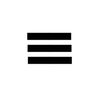
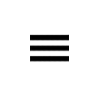
미디어 쿼리 추가

Changed region(s): [[0.27, 0.3, 0.72, 0.66]]

diff --git a/index.html b/index.html
@@ -9,7 +9,7 @@
     <script src="/jquery-3.2.1.min.js"></script>
     <link href="https://fonts.googleapis.com/css?family=Roboto:100,100i,300,400,500,700,900" rel="stylesheet">
 </head>
-<body id="main_page_body">
+<body id="second_page_body">
     <div class="container">
         <header>
             <a href="http://dothegee.org"><img src="/image/logo.svg" id="home_logo" alt=""></a>
@@ -24,7 +24,8 @@
         </header>
         <div class="contants">
             <nav>
-                <ul>
+               <a href="#" id="menu-icon"></a>
+                <ul>  
                     <li><a href="#">Editorial</a></li>
                     <li><a href="#">Typography</a></li>
                     <li><a href="#">User interface</a></li>
@@ -33,26 +34,60 @@
                     <li><a href="#">Contact</a></li>
                 </ul>
             </nav>
-               <div class="wrapper">
-               <div id="main_slider">
-                    <figure>
-                        <img src="/image/watch.png" alt="">
-                        <img src="/image/watch.png" alt="">
-                        <img src="/image/gird.png" alt="">
-                        <img src="/image/watch.png" alt="">
-                    </figure>
+                <div id="slider">
+                        <a href="/description_page.html" class="shoerepair" >
+                        <img class="item"src="/image/shoe.png" alt="">
+                        <p class="title">Shoe repair shop</p>
+                        <p class="subtitle">Dr.Nelson's shoe repair shop branding</p>
+                        </a>
+                        <a href="/description_page.html" class="shoerepair" >
+                        <img class="item"src="/image/shoe.png" alt="">
+                        <p class="title">Shoe repair shop</p>
+                        <p class="subtitle">Dr.Nelson's shoe repair shop branding</p>
+                        </a>
+                        <a href="/description_page.html" class="shoerepair" >
+                        <img class="item"src="/image/shoe.png" alt="">
+                        <p class="title">Shoe repair shop</p>
+                        <p class="subtitle">Dr.Nelson's shoe repair shop branding</p>
+                        </a>
+                        <a href="/description_page.html" class="shoerepair" >
+                        <img class="item"src="/image/shoe.png" alt="">
+                        <p class="title">Shoe repair shop</p>
+                        <p class="subtitle">Dr.Nelson's shoe repair shop branding</p>
+                        </a>
+                        <a href="/description_page.html" class="shoerepair" >
+                        <img class="item"src="/image/shoe.png" alt="">
+                        <p class="title">Shoe repair shop</p>
+                        <p class="subtitle">Dr.Nelson's shoe repair shop branding</p>
+                        </a>
+                        <a href="/description_page.html" class="shoerepair" >
+                        <img class="item"src="/image/shoe.png" alt="">
+                        <p class="title">Shoe repair shop</p>
+                        <p class="subtitle">Dr.Nelson's shoe repair shop branding</p>
+                        </a>
+                        <a href="/description_page.html" class="shoerepair" >
+                        <img class="item"src="/image/shoe.png" alt="">
+                        <p class="title">Shoe repair shop</p>
+                        <p class="subtitle">Dr.Nelson's shoe repair shop branding</p>
+                        </a>
+                        <ul id="menu_2">
+            <li>
+                <a ng-href="about" href="about"> + About me </a>
+            </li>
+             <li>
+                <a href="mailto:dldrmak@naver.com" target="_blank">+ dldrmak@naver.com</a>
+            </li>
+            </ul>
+                        
+                        
+<!--                        keyframes에서 첫번째 사진과 마지막사진은 동일한 사진으로 로테이션 효과를 준다.-->
                 </div>
-                       <div class="figure_1">
-                        <img class="others" src="/image/shoe.png" alt="">
-                        <img class="others" src="/image/watch.png" alt="">
-                        </div>
-                        </div>
-                        <div class="bottom">
-                            <div class="figure"><img class="the_others" src="/image/shoe.png" alt=""></div>
-                            <div class="figure"><img class="the_others" src="/image/shoe.png" alt=""></div>
-                            <div class="figure"><img class="the_others" src="/image/shoe.png" alt=""></div>
-                        </div>
-                </div>
+                
+            <aside>
+                
+            </aside>
+            
+        </div>
         <footer>
             <p>© 2017  Eden. Designer & Web Developer.</p>
         </footer>

diff --git a/portfolio.css b/portfolio.css
@@ -1,4 +1,4 @@
-#main_page_body{
+/*#main_page_body{*/
     font-family: 'Roboto', sans-serif;
     font-size: 14px;
 /*    overflow-x: hidden;*/
@@ -279,16 +279,16 @@ div#main_slider figure img { width: 25%; float: left;}
 
 @media only screen and (max-width: 768px) {
     
-    
+    #home_logo{
+        position: absolute;
+        top: 3vh;
+    }
     .aboutcontent{
         position: inherit;
         width: 95%;
     }
     #description_text{
         width: 80vw;
-    }
-    nav {
-        display: none;
     }
    
     .item_secondpage{
@@ -297,6 +297,14 @@ div#main_slider figure img { width: 25%; float: left;}
     }
     #menu{
         display: none;
+    }
+    nav{
+        position: absolute;
+        top: 0;
+        height: 12vh;
+        border: 0px;
+        z-index: 100
+        
     }
     #menu-icon{
         position: absolute;
@@ -308,19 +316,50 @@ div#main_slider figure img { width: 25%; float: left;}
         display: none;
         z-index: 1000;
     }
+    nav:hover{
+        position: fixed;
+        top: 0;
+        height: 23vh;
+        
+    }
     nav:hover ul{
-        display: block;
+        margin-top: 8vh;
+        display: flex;
+        flex-direction: column;
+        align-items: flex-end;
+        background: #ffffff; 
+        border: 1px solid gray;
+/*        border-radius: 2px 2px 2px 2px;*/
+/*        width: 50vw;*/
+    }
+    nav ul li {
+        padding-left: 5vw;
     }
     #menu_2{
     padding-bottom: 10vh;
-    width: 90vw;
+    width: 100vw;
     list-style: none;
     display: flex;
     font-size: 0.8rem;
     font-weight: 300;
-    justify-content: space-between;
+    justify-content: flex-end;
+    padding-left: 0; 
+    margin-left: 0;
     }
-    
+    #menu_2 li a{
+        margin-right: 12vw;
+    }
+    #slider{
+        position: absolute;
+        flex-direction: column;
+        align-items: center;
+        width: 92.5vw;
+        z-index: -1;
+    }
+    #scond_page_body{
+        overflow-x: hidden;
+    }
+
 }
 
 
